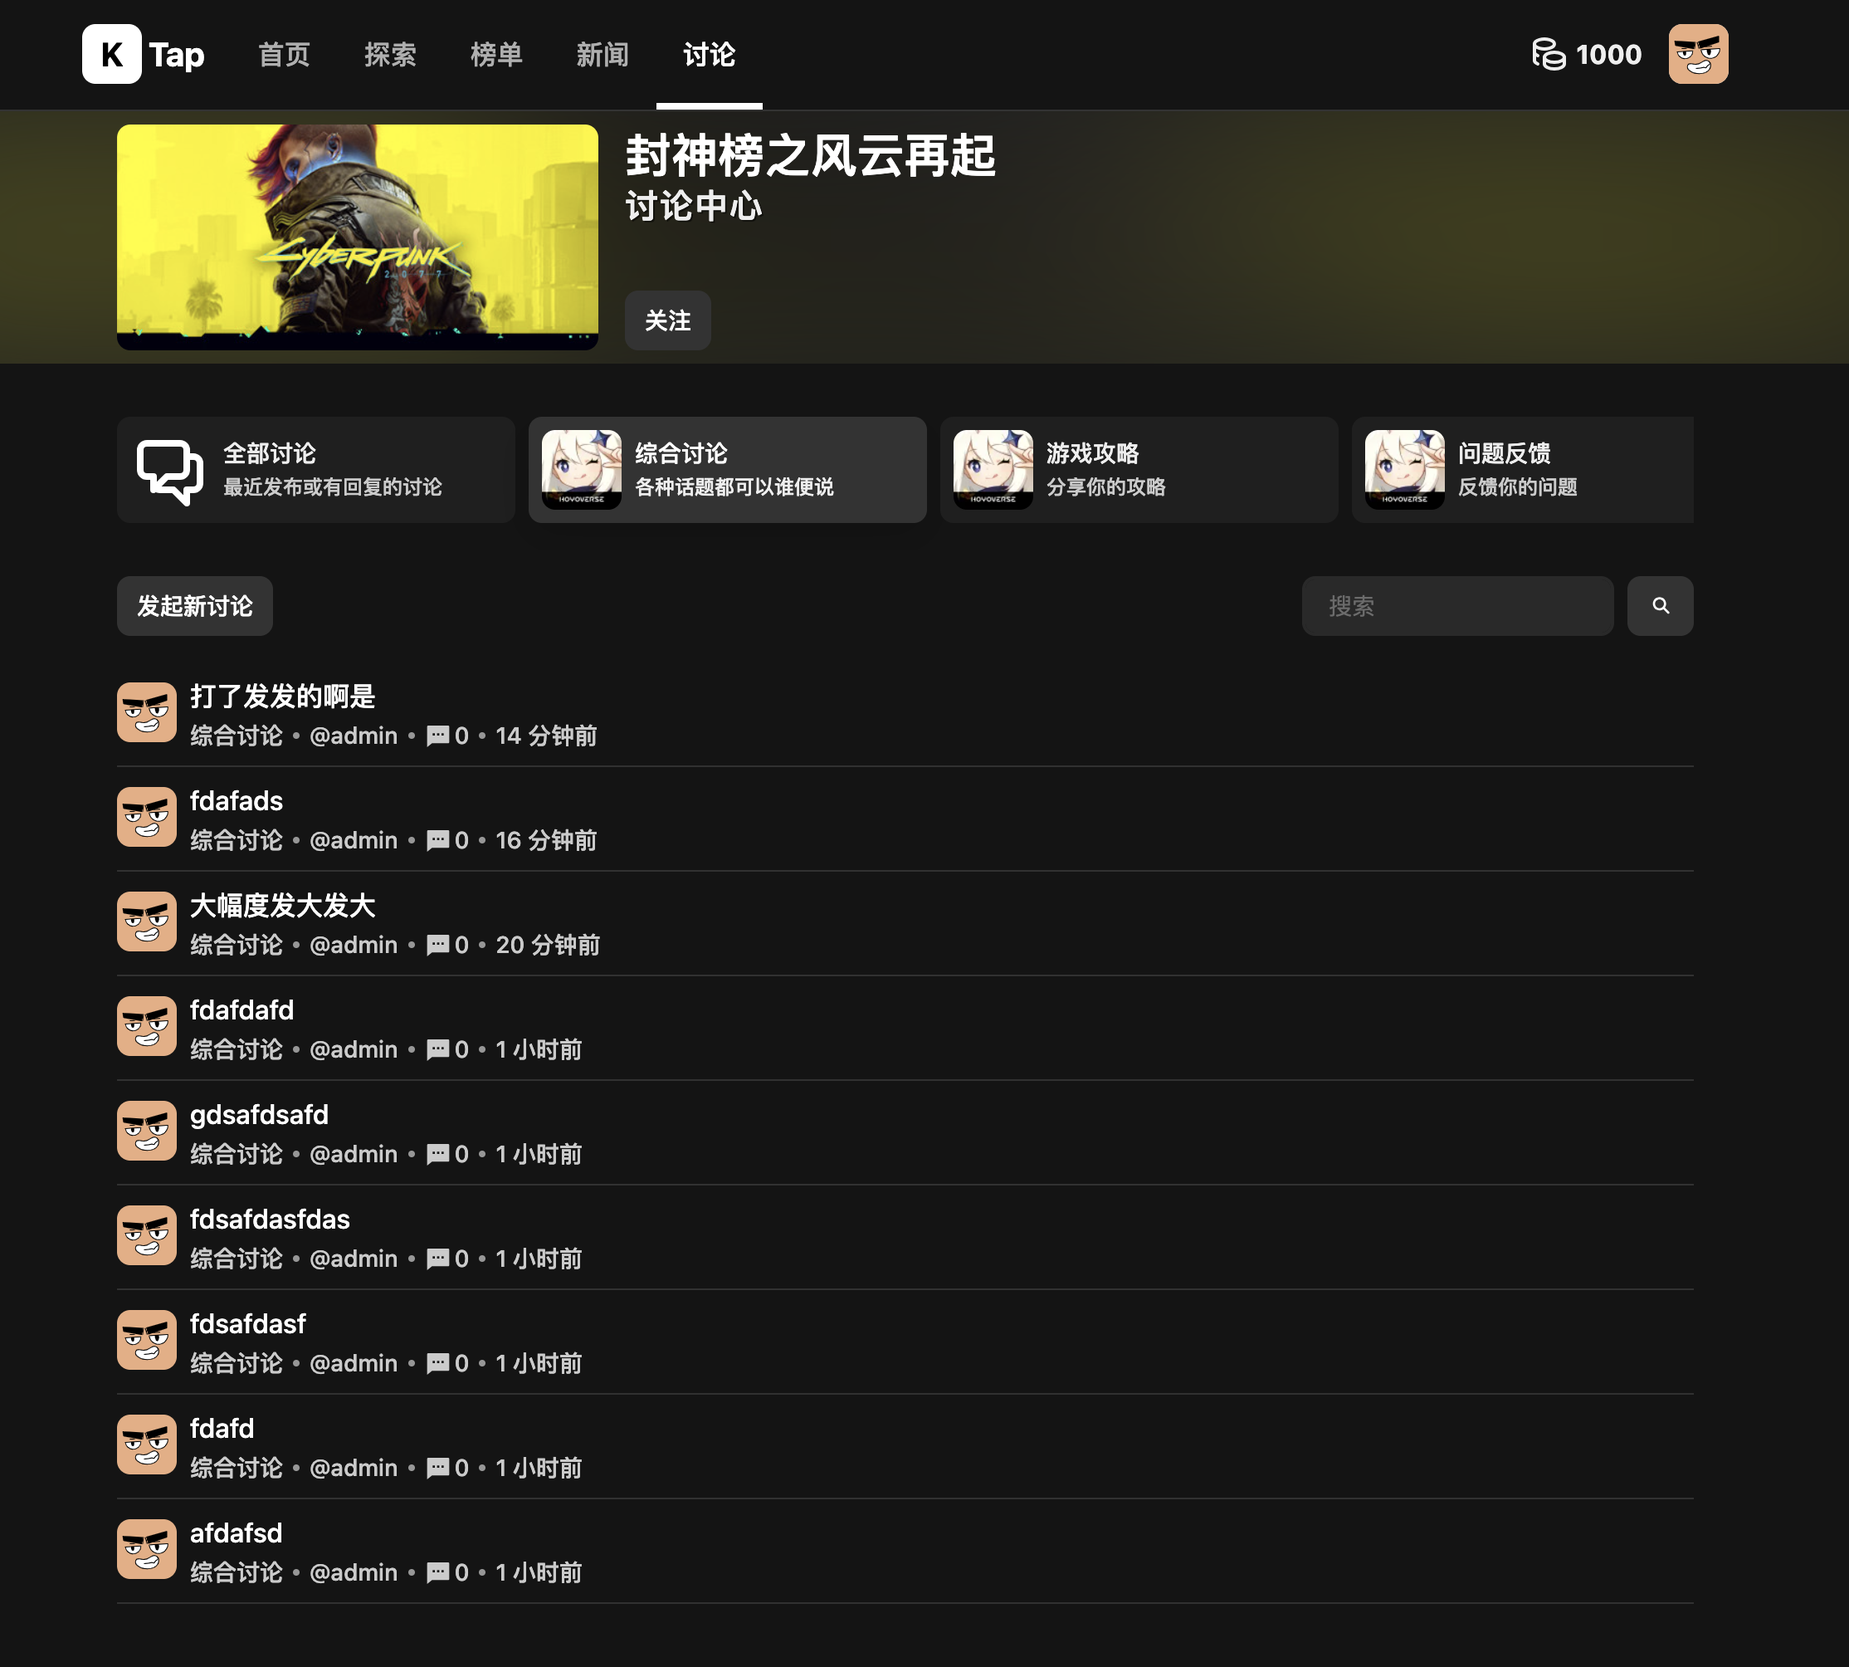
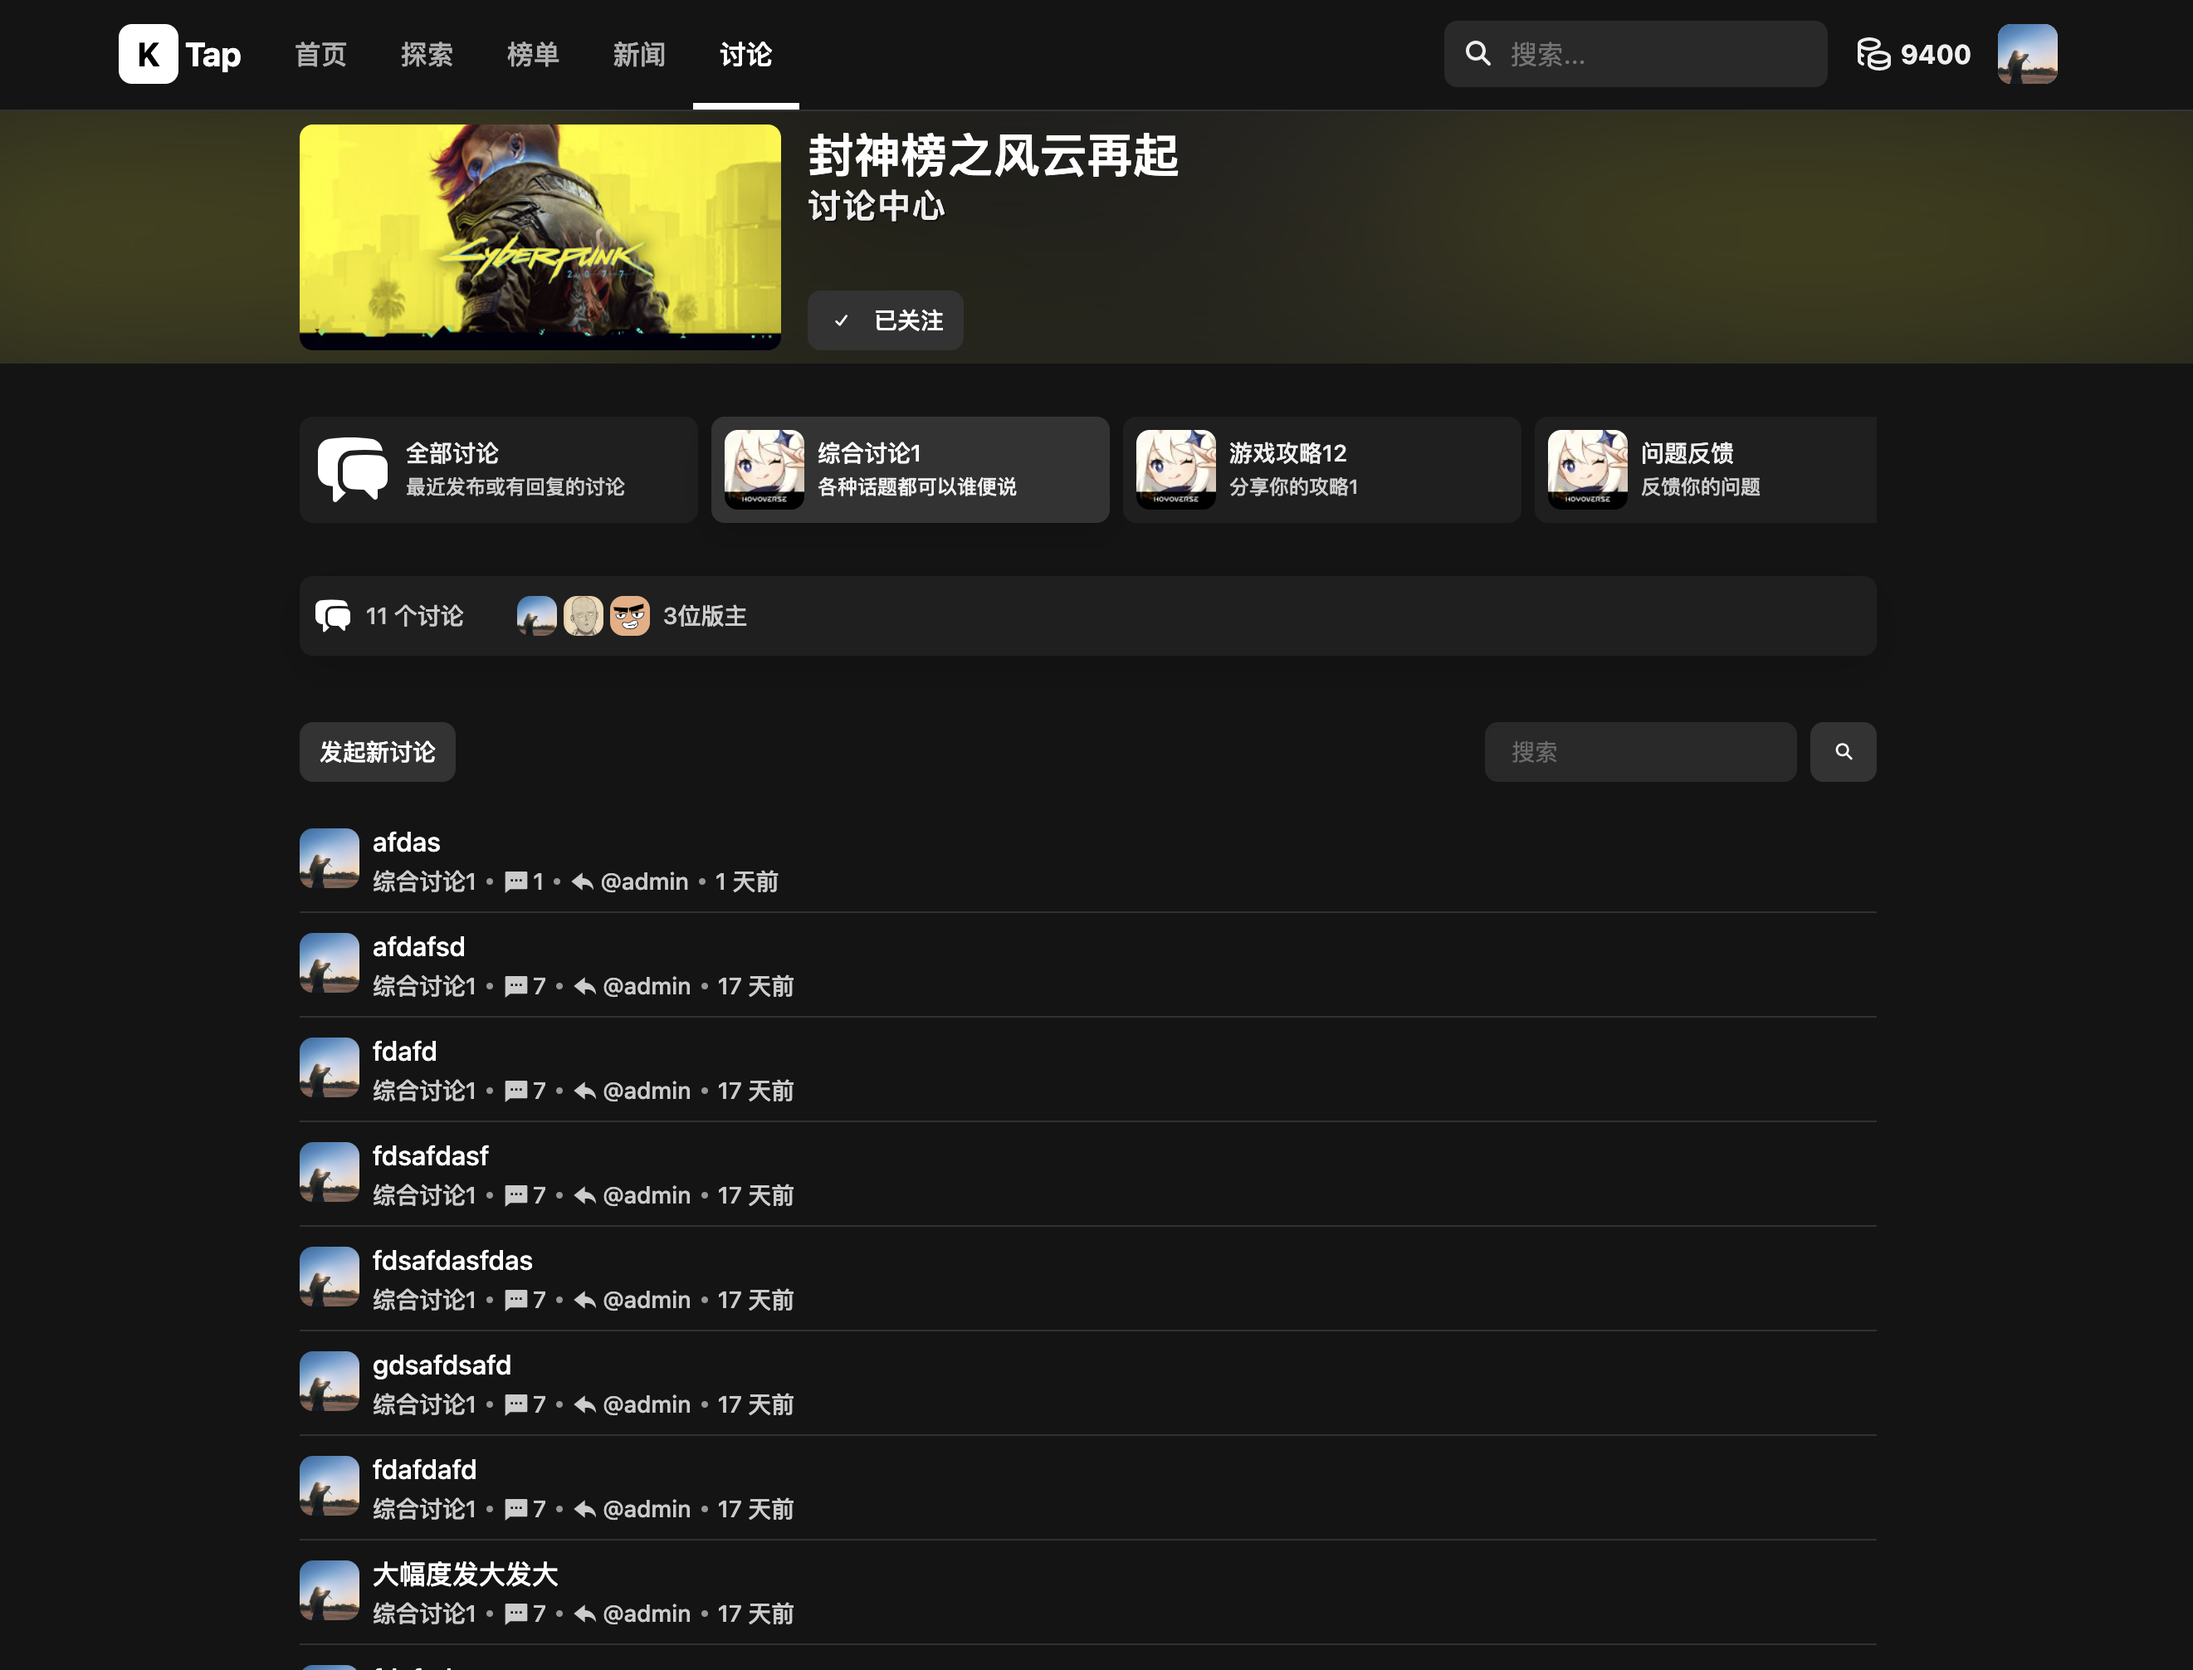
add discussion channel meta bar

diff --git a/ktap-ui-web/src/pages/discussions/discussions-app.js b/ktap-ui-web/src/pages/discussions/discussions-app.js
@@ -164,7 +164,8 @@ function Channels({ appId, channelId = 0, }) {
                 const res = await fetch(`/api/discussions/apps/${appId}/channels`);
                 if (res.ok) {
                     const json = await res.json();
-                    setDataList([{ id: 0, name: '全部讨论', description: '最近发布或有回复的讨论' }, ...json.data]);
+                    const allDiscussionCount = json?.data?.reduce((count, channel) => count + channel.meta.discussions, 0);
+                    setDataList([{ id: 0, name: '全部讨论', description: '最近发布或有回复的讨论', meta: { discussions: allDiscussionCount } }, ...json.data]);
                 }
             } finally {
                 setIsLoading(false);
@@ -203,7 +204,7 @@ function Channels({ appId, channelId = 0, }) {
                                     : <div className={css({
                                         borderRadius: theme.borders.radius300, width: theme.sizing.scale1200, height: theme.sizing.scale1200,
                                     })} title={channel.name}>
-                                        <ChatAlt2 />
+                                        <ChatAlt2 solid />
                                     </div>
                                 }
                                 <Block display='flex' flexDirection='column' gridGap='scale100' width='calc(100% - 56px)'>
@@ -215,22 +216,32 @@ function Channels({ appId, channelId = 0, }) {
                     })}
                 </Block>
             }
-            {channelId > 0 && currentChannel &&
+            {currentChannel &&
                 <div className={css({
                     display: 'flex', alignItems: 'center', backgroundColor: theme.colors.backgroundSecondary, padding: theme.sizing.scale300,
-                    borderRadius: theme.borders.radius300, boxShadow: theme.lighting.shadow700, height: '48px', gap: theme.sizing.scale100,
-                    marginBottom: theme.sizing.scale600,
+                    borderRadius: theme.borders.radius300, boxShadow: theme.lighting.shadow700, height: '48px', marginBottom: theme.sizing.scale600,
+                    overflow: 'hidden',
                 })}>
-                    <LabelSmall>
-                        {currentChannel?.moderators?.length === 0 ? '暂无版主' : '版主：'}
-                    </LabelSmall>
-                    {currentChannel?.moderators?.slice(0, 5).map((moderator, index) => (
-                        <div key={index} className={css({ display: 'flex', alignItems: 'center', justifyContent: 'center', })}>
-                            <img alt={moderator.name}
-                                className={css({ borderRadius: theme.borders.radius300, })}
-                                src={moderator.avatar} width="24px" height="24px" />
-                        </div>
-                    ))}
+                    <Block display='flex' alignItems='center' gridGap='scale100' marginRight='scale900'>
+                        <ChatAlt2 width='24px' height='24px' solid />
+                        <LabelSmall color='primary300' marginLeft='scale100'>
+                            {currentChannel.meta?.discussions || 0} 个讨论
+                        </LabelSmall>
+                    </Block>
+                    {channelId > 0 &&
+                        <Block display='flex' alignItems='center' gridGap='scale100'>
+                            {currentChannel?.moderators?.slice(0, 5).map((moderator, index) => (
+                                <Link key={index} className={css({ display: 'flex', alignItems: 'center', justifyContent: 'center', textDecoration: 'none', })} to={`/users/${moderator.id}`} title={moderator.name}>
+                                    <img alt={moderator.name}
+                                        className={css({ borderRadius: theme.borders.radius300, })}
+                                        src={moderator.avatar} width="24px" height="24px" />
+                                </Link>
+                            ))}
+                            <LabelSmall color='primary300' marginLeft='scale100'>
+                                {currentChannel?.moderators?.length === 0 ? '暂无版主' : `${currentChannel?.moderators?.length}位版主`}
+                            </LabelSmall>
+                        </Block>
+                    }
                 </div>
             }
             <Discussions appId={appId} channelId={channelId} />

diff --git a/ktap-ui-web/src/components/icons.js b/ktap-ui-web/src/components/icons.js
@@ -157,13 +157,26 @@ export const Annotation = ({ width, height }) => {
     );
 };
 
-export const ChatAlt2 = ({ width, height }) => {
+export const ChatAlt2 = ({ width, height, solid = false, }) => {
     const w = width || '100%';
     const h = height || '100%';
     return (
-        <svg xmlns="http://www.w3.org/2000/svg" width={w} height={h} fill="none" viewBox="0 0 24 24" stroke="currentColor" strokeWidth={2}>
-            <path strokeLinecap="round" strokeLinejoin="round" d="M17 8h2a2 2 0 012 2v6a2 2 0 01-2 2h-2v4l-4-4H9a1.994 1.994 0 01-1.414-.586m0 0L11 14h4a2 2 0 002-2V6a2 2 0 00-2-2H5a2 2 0 00-2 2v6a2 2 0 002 2h2v4l.586-.586z" />
-        </svg>
+        <>
+            {
+                solid ?
+                    (
+                        <svg xmlns="http://www.w3.org/2000/svg" viewBox="0 0 24 24" width={w} height={h} fill="currentColor">
+                            <path d="M4.913 2.658c2.075-.27 4.19-.408 6.337-.408 2.147 0 4.262.139 6.337.408 1.922.25 3.291 1.861 3.405 3.727a4.403 4.403 0 00-1.032-.211 50.89 50.89 0 00-8.42 0c-2.358.196-4.04 2.19-4.04 4.434v4.286a4.47 4.47 0 002.433 3.984L7.28 21.53A.75.75 0 016 21v-4.03a48.527 48.527 0 01-1.087-.128C2.905 16.58 1.5 14.833 1.5 12.862V6.638c0-1.97 1.405-3.718 3.413-3.979z" />
+                            <path d="M15.75 7.5c-1.376 0-2.739.057-4.086.169C10.124 7.797 9 9.103 9 10.609v4.285c0 1.507 1.128 2.814 2.67 2.94 1.243.102 2.5.157 3.768.165l2.782 2.781a.75.75 0 001.28-.53v-2.39l.33-.026c1.542-.125 2.67-1.433 2.67-2.94v-4.286c0-1.505-1.125-2.811-2.664-2.94A49.392 49.392 0 0015.75 7.5z" />
+                        </svg >
+                    ) :
+                    (
+                        <svg xmlns="http://www.w3.org/2000/svg" width={w} height={h} fill="none" viewBox="0 0 24 24" stroke="currentColor" strokeWidth={2}>
+                            <path strokeLinecap="round" strokeLinejoin="round" d="M20.25 8.511c.884.284 1.5 1.128 1.5 2.097v4.286c0 1.136-.847 2.1-1.98 2.193-.34.027-.68.052-1.02.072v3.091l-3-3c-1.354 0-2.694-.055-4.02-.163a2.115 2.115 0 01-.825-.242m9.345-8.334a2.126 2.126 0 00-.476-.095 48.64 48.64 0 00-8.048 0c-1.131.094-1.976 1.057-1.976 2.192v4.286c0 .837.46 1.58 1.155 1.951m9.345-8.334V6.637c0-1.621-1.152-3.026-2.76-3.235A48.455 48.455 0 0011.25 3c-2.115 0-4.198.137-6.24.402-1.608.209-2.76 1.614-2.76 3.235v6.226c0 1.621 1.152 3.026 2.76 3.235.577.075 1.157.14 1.74.194V21l4.155-4.155" />
+                        </svg>
+                    )
+            }
+        </>
     );
 };
 

diff --git a/ktap-ui-web/src/pages/header.js b/ktap-ui-web/src/pages/header.js
@@ -209,7 +209,7 @@ export default function Header() {
                                 </div>
                                 <input
                                     className={css({
-                                        outline: 'none', border: 0, background: 'none', margin: 0, padding: 0,
+                                        outline: 'none', border: 0, background: 'none', margin: 0,
                                         paddingLeft: 0, paddingRight: theme.sizing.scale550,
                                         paddingTop: theme.sizing.scale200, paddingBottom: theme.sizing.scale200,
                                         color: 'inherit', fontSize: 'inherit', fontFamily: 'inherit', lineHeight: 'inherit',

diff --git a/ktap-server/src/routes/api/discussions.js b/ktap-server/src/routes/api/discussions.js
@@ -99,11 +99,16 @@ const discussions = async (fastify, opts) => {
                             select: { id: true, name: true, title: true, avatar: true, gender: true, }
                         }
                     }
-                }
+                },
+                _count: { select: { discussions: true } }
             }
         });
         data.forEach(item => {
             item.moderators = item.moderators.map(ref => ref.user);
+            item.meta = {
+                discussions: item._count.discussions || 0,
+            };
+            delete item._count;
         });
         return reply.code(200).send({ data });
     });

diff --git a/ktap-ui-web/src/pages/search/search-panel.js b/ktap-ui-web/src/pages/search/search-panel.js
@@ -78,7 +78,7 @@ function SearchPanel() {
                         onKeyDown={e => {
                             if (e.key === 'Enter') {
                                 e.preventDefault();
-                                if (word.length > 0) navigate(`/search?q=${word}`, { replace: true });
+                                navigate(`/search?q=${word}`, { replace: true });
                             }
                         }}
                     />
